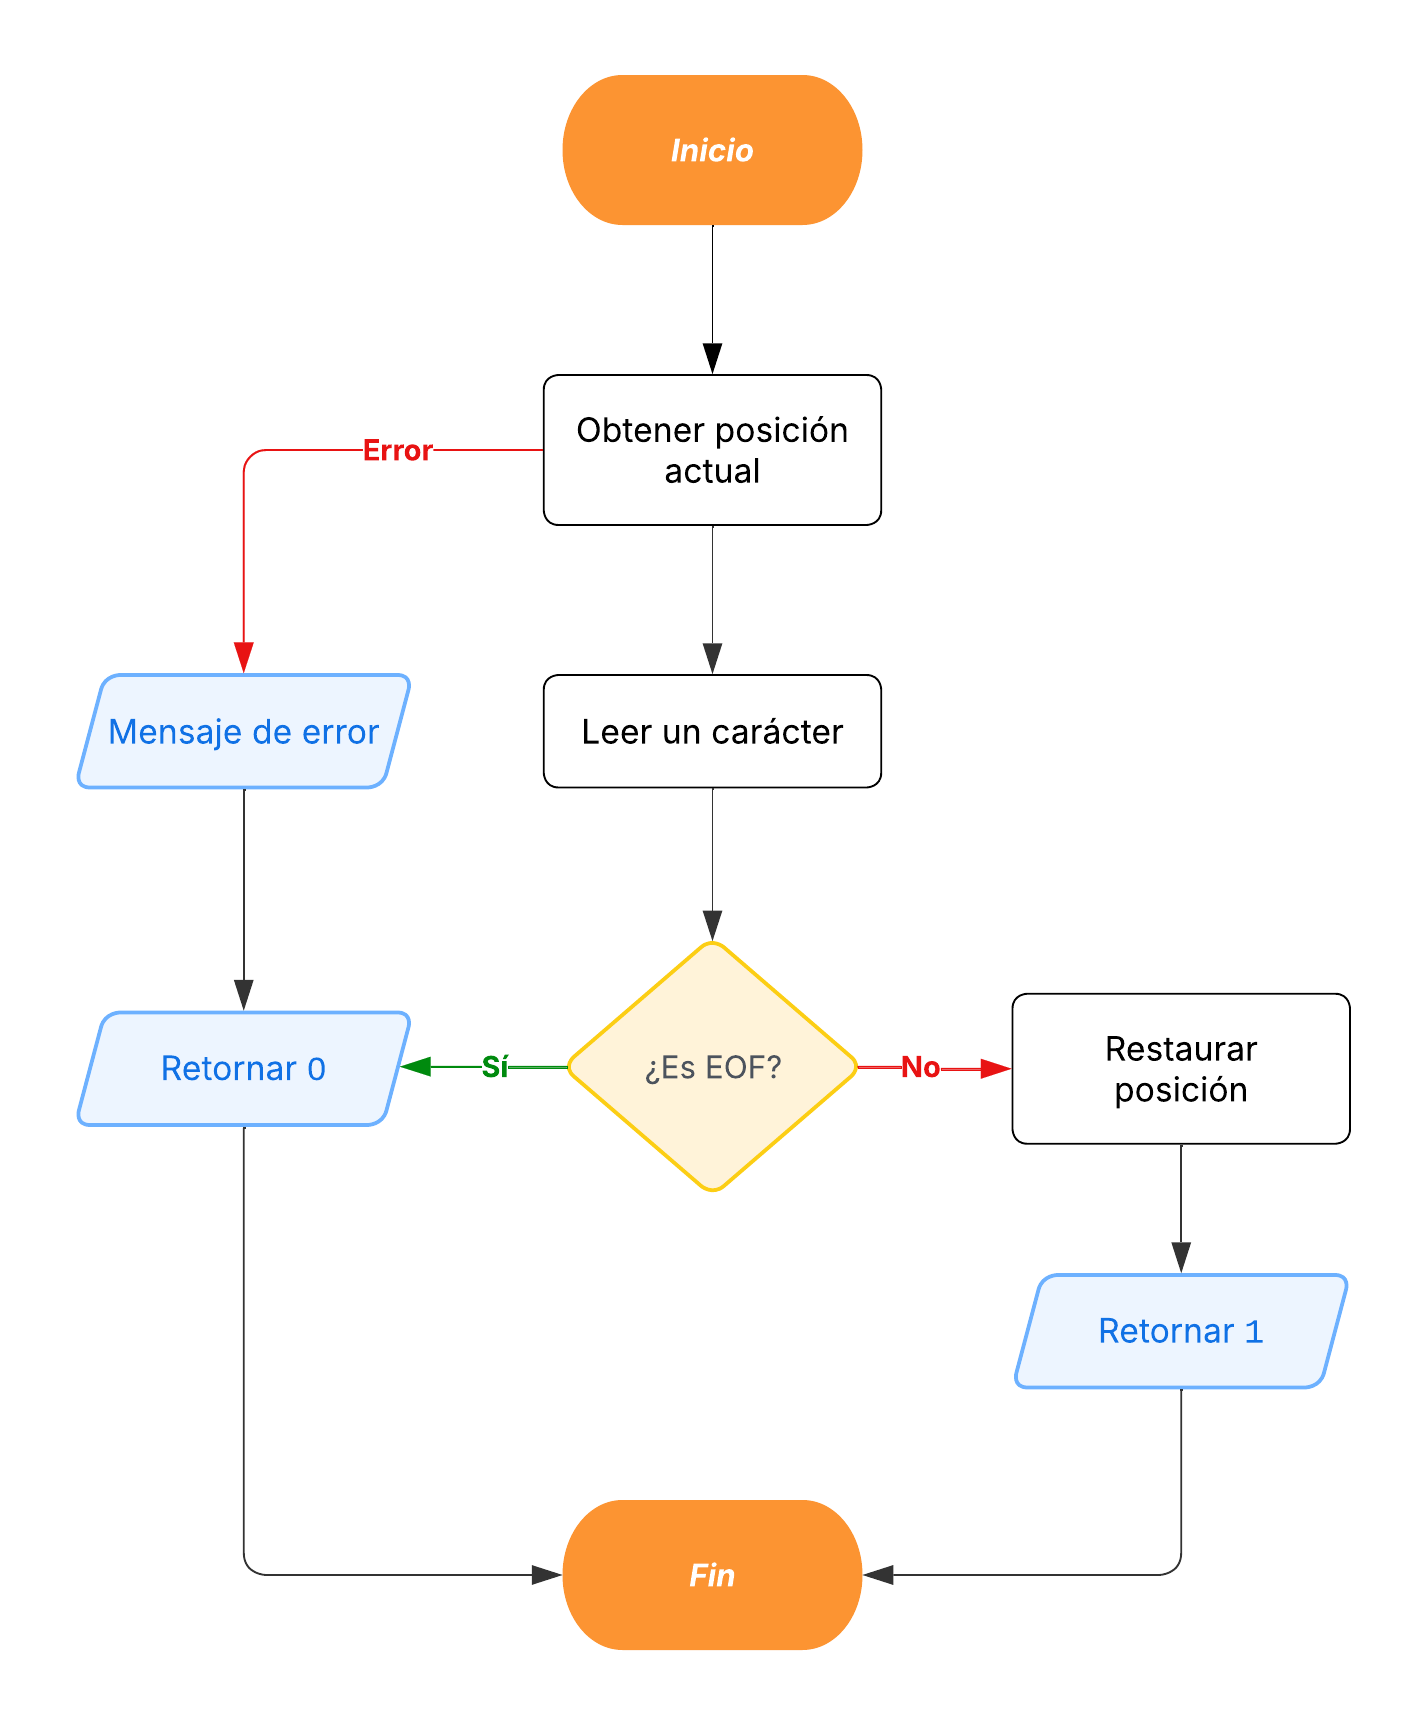
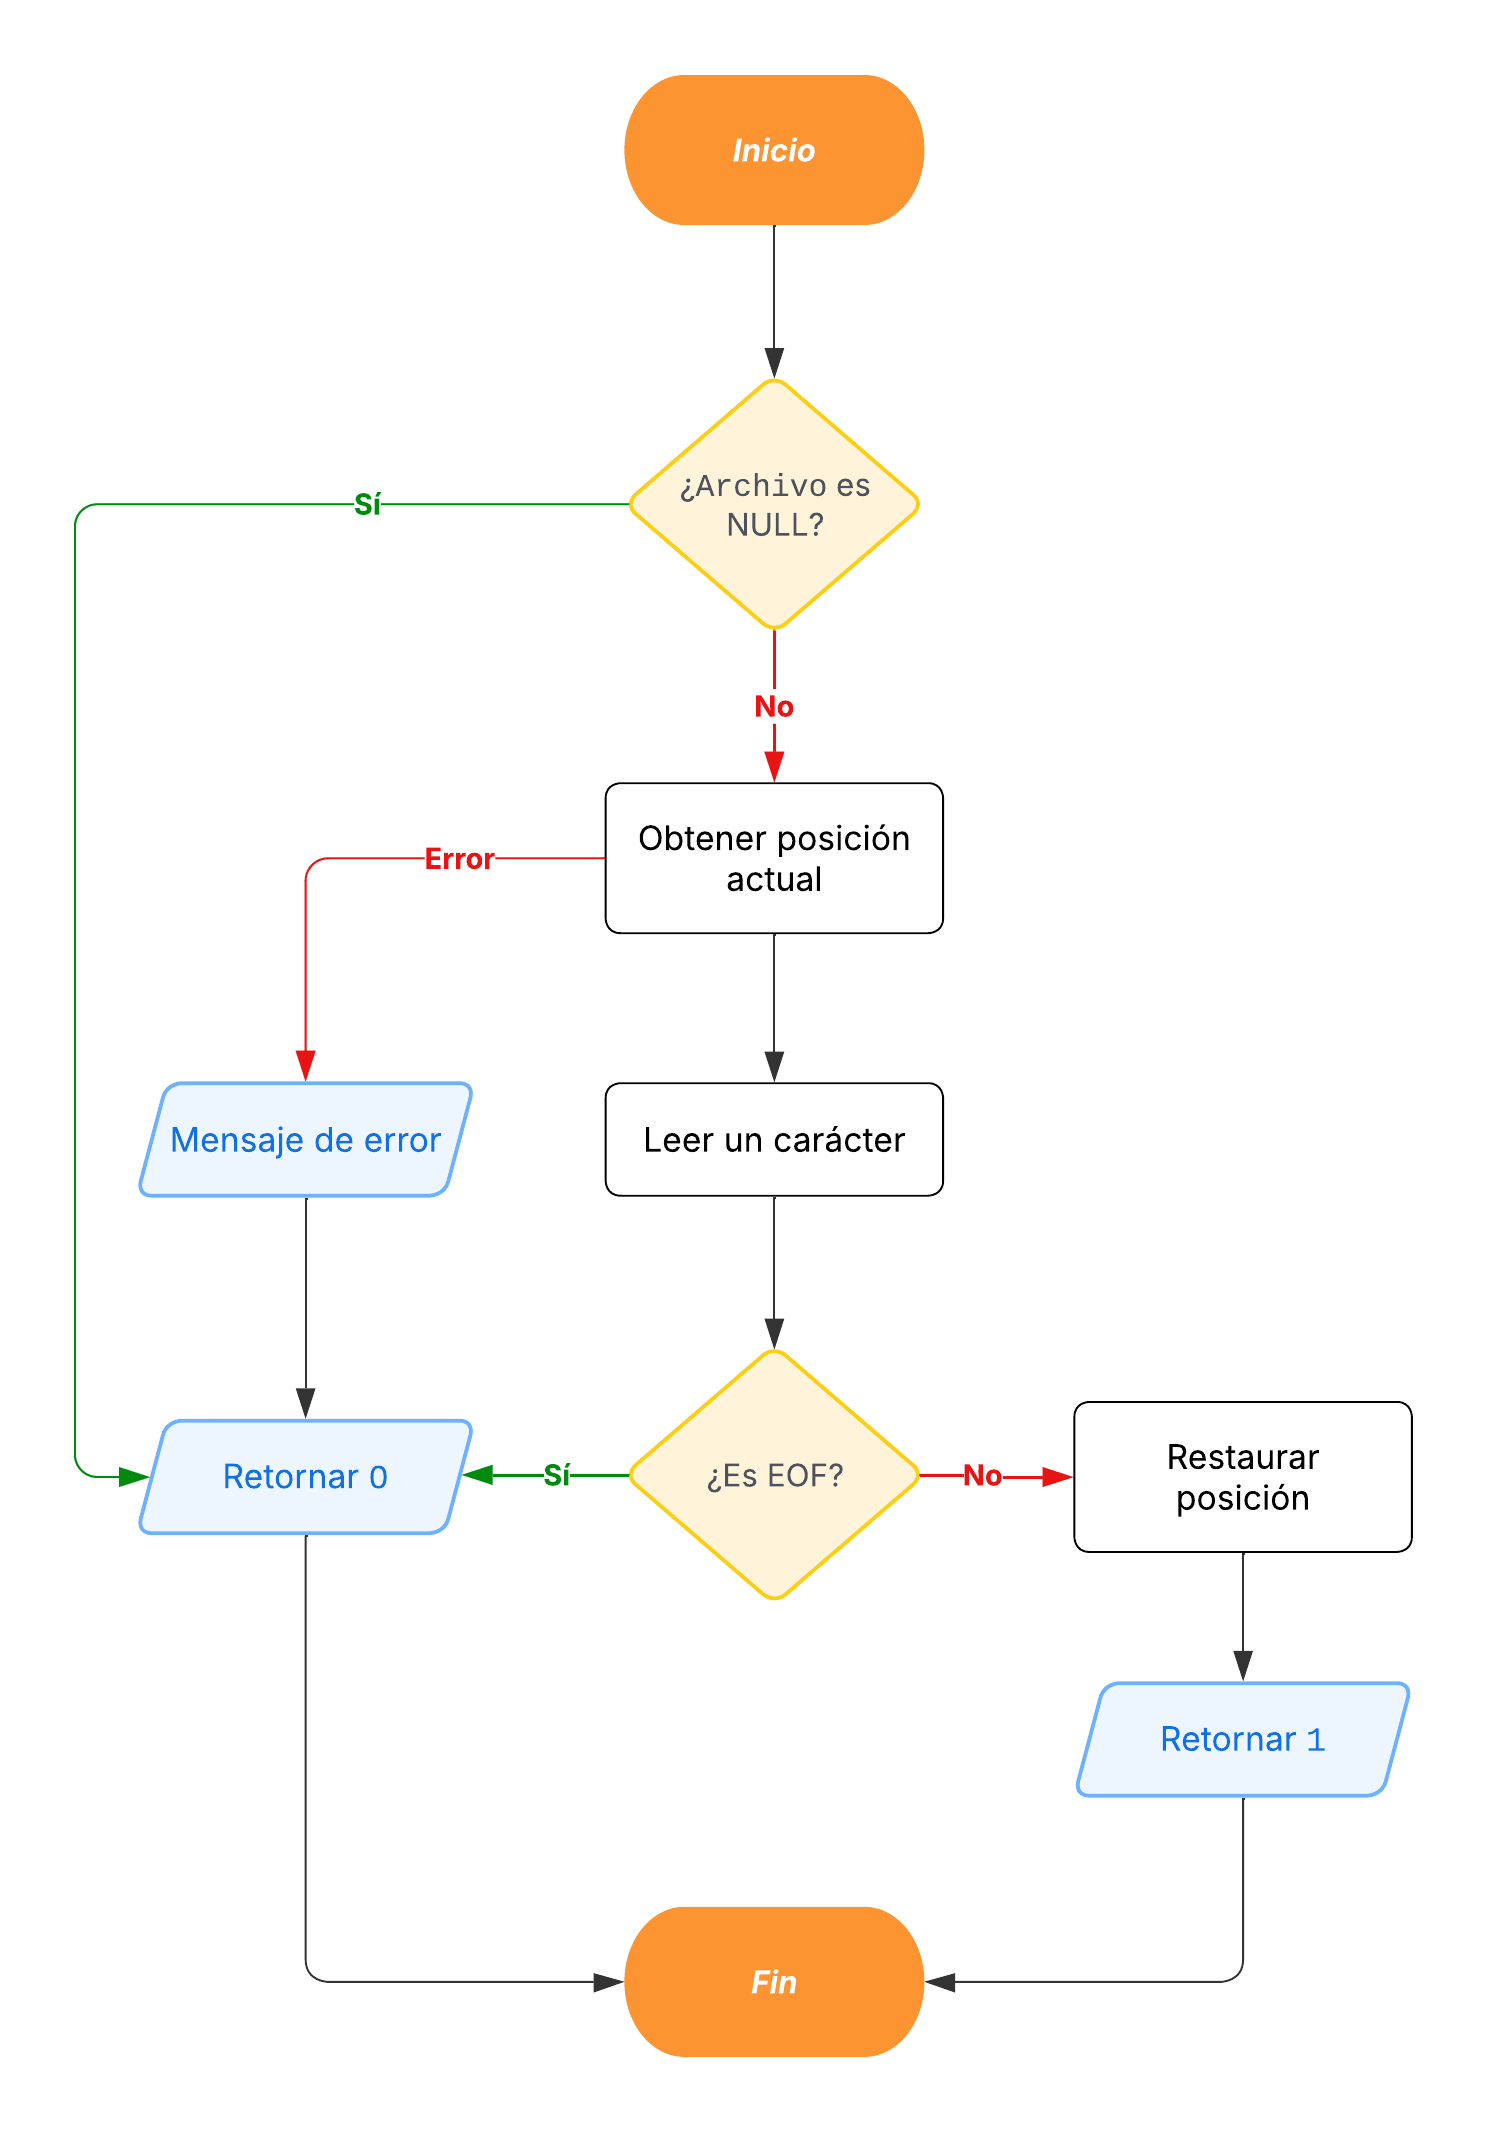
Modificaciones para las pruebas

diff --git a/TP0/src/archivo.c b/TP0/src/archivo.c
@@ -19,6 +19,11 @@ struct Archivo {
  */
 Archivo *archivo_abrir(const char *nombre)
 {
+	if (nombre == NULL) {
+		printf("No se puedo abrir el archivo (null)\n");
+		return NULL;
+	}
+
 	Archivo *archivo = malloc(sizeof(Archivo));
 	if (archivo == NULL) {
 		printf("Error reservando memoria\n");
@@ -44,12 +49,21 @@ Archivo *archivo_abrir(const char *nombre)
  */
 const char *archivo_leer_linea(Archivo *archivo)
 {
+	if (archivo == NULL || archivo->file == NULL) {
+		return NULL;
+	}
+
 	if (archivo->ultima_linea) {
 		free(archivo->ultima_linea);
 		archivo->ultima_linea = NULL;
 	}
 
-	char *linea = malloc(sizeof(char) * TAMANO_CONST_BUFFER);
+	int caracter = fgetc(archivo->file);
+	if (caracter == EOF) {
+		return NULL;
+	}
+
+	char *linea = malloc(sizeof(char) * (size_t)TAMANO_CONST_BUFFER);
 	if (linea == NULL) {
 		printf("Error reservando memoria\n");
 		return NULL;
@@ -57,30 +71,31 @@ const char *archivo_leer_linea(Archivo *archivo)
 
 	int tamano_actual_buffer = TAMANO_CONST_BUFFER;
 	int chars_leidos = 0;
-	int caracter;
-	while ((caracter = fgetc(archivo->file)) != '\n' && caracter != EOF) {
+	while (caracter != '\n' && caracter != EOF) {
 		if (chars_leidos + 1 >= tamano_actual_buffer) {
 			tamano_actual_buffer += TAMANO_CONST_BUFFER;
 			char *nueva_linea =
-			    realloc(linea, tamano_actual_buffer);
+			    realloc(linea, (size_t)tamano_actual_buffer);
 			if (nueva_linea == NULL) {
 				printf("Error reservando memoria\n");
 				free(linea);
+				if (archivo->ultima_linea) {
+					free(archivo->ultima_linea);
+					archivo->ultima_linea = NULL;
+				}
 				return NULL;
 			}
 			linea = nueva_linea;
 		}
-		linea[chars_leidos++] = caracter;
+		linea[chars_leidos++] = (char)caracter;
+		caracter = fgetc(archivo->file);
 	}
 
 	if (chars_leidos == 0 && caracter == '\n') {
-		linea[0] = '\0';
-	} else if (chars_leidos == 0 && caracter == EOF) {
-		free(linea);
-		return NULL;
-	} else
-		linea[chars_leidos] = '\0';
+		linea[chars_leidos++] = '\0';
+	}
 
+	linea[chars_leidos] = '\0';
 	archivo->lineas_leidas++;
 	archivo->ultima_linea = linea;
 	return linea;
@@ -93,6 +108,10 @@ const char *archivo_leer_linea(Archivo *archivo)
  */
 int archivo_hay_mas_lineas(Archivo *archivo)
 {
+	if (archivo == NULL || archivo->file == NULL) {
+		return 0;
+	}
+
 	long posicion_actual = ftell(archivo->file);
 	if (posicion_actual == -1) {
 		printf("Error al obtener la posición del archivo\n");
@@ -100,8 +119,9 @@ int archivo_hay_mas_lineas(Archivo *archivo)
 	}
 
 	int caracter = fgetc(archivo->file);
-	if (caracter == EOF)
+	if (caracter == EOF) {
 		return 0;
+	}
 
 	fseek(archivo->file, posicion_actual, SEEK_SET);
 	return 1;
@@ -114,8 +134,9 @@ int archivo_hay_mas_lineas(Archivo *archivo)
  */
 int archivo_lineas_leidas(Archivo *archivo)
 {
-	if (archivo == NULL)
+	if (archivo == NULL) {
 		return 0;
+	}
 	return archivo->lineas_leidas;
 }
 
@@ -125,10 +146,12 @@ int archivo_lineas_leidas(Archivo *archivo)
 void archivo_cerrar(Archivo *archivo)
 {
 	if (archivo != NULL) {
-		if (archivo->file != NULL)
+		if (archivo->file != NULL) {
 			fclose(archivo->file);
-		if (archivo->ultima_linea)
+		}
+		if (archivo->ultima_linea) {
 			free(archivo->ultima_linea);
+		}
 		free(archivo);
 	}
 }
